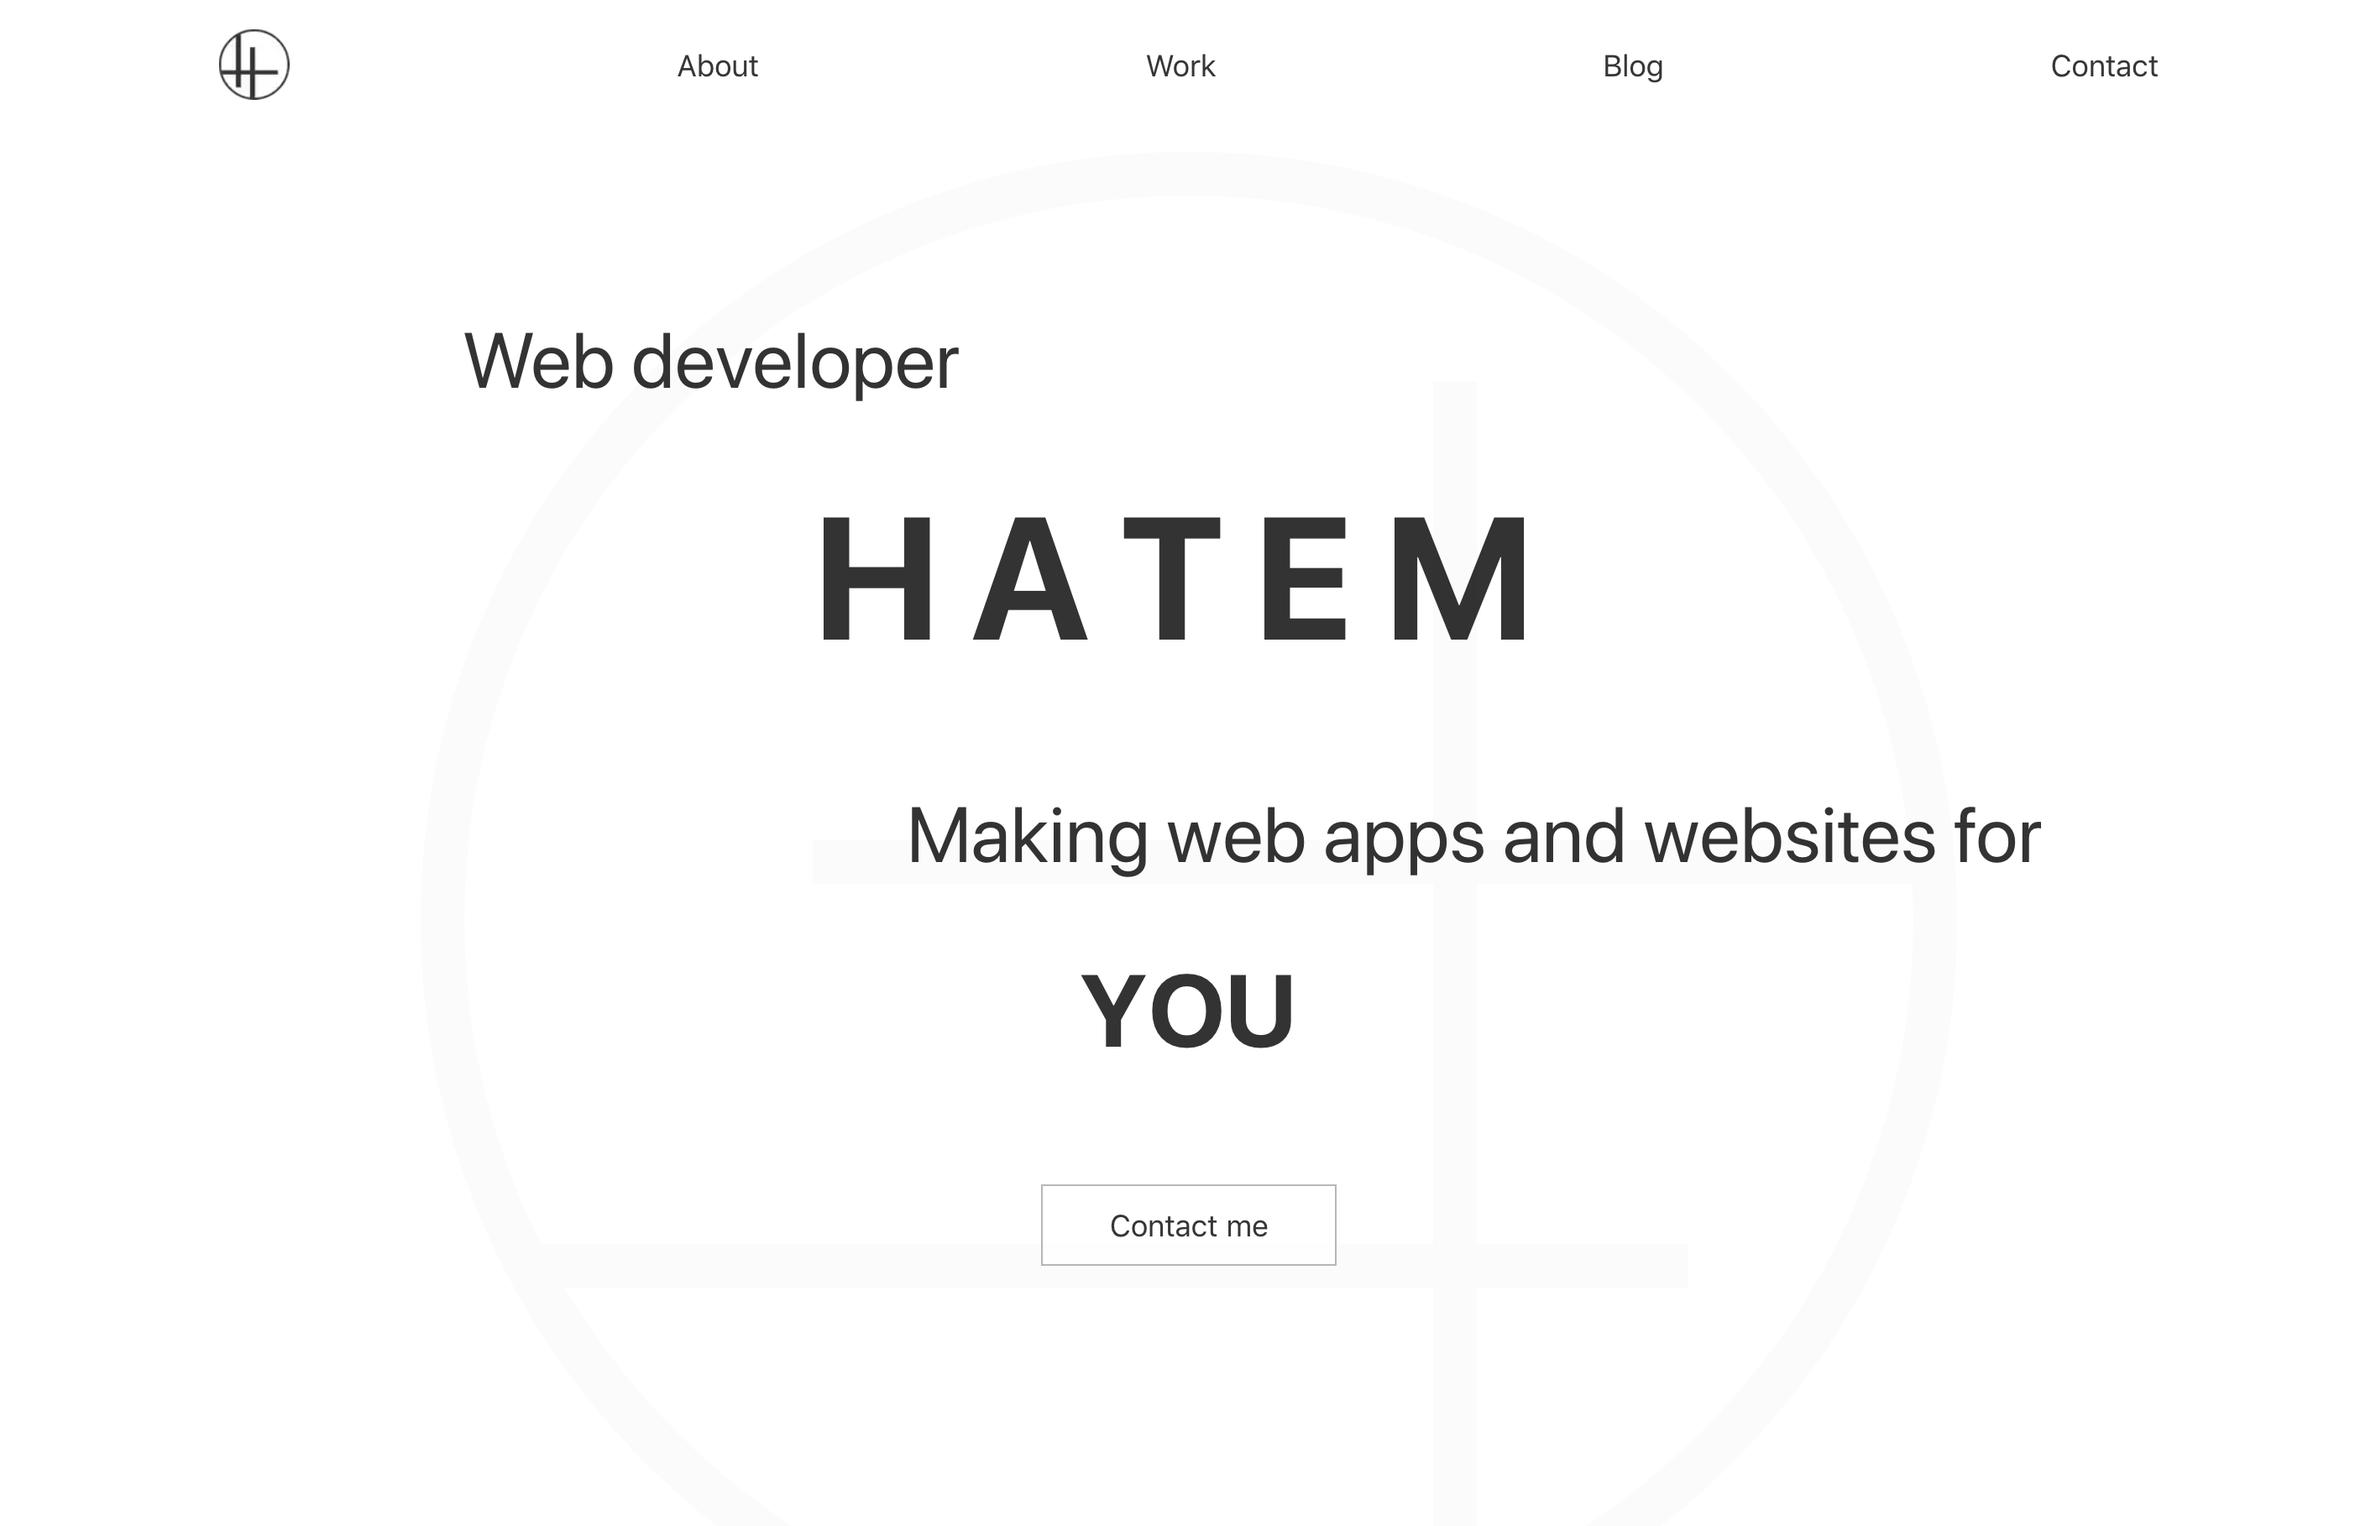
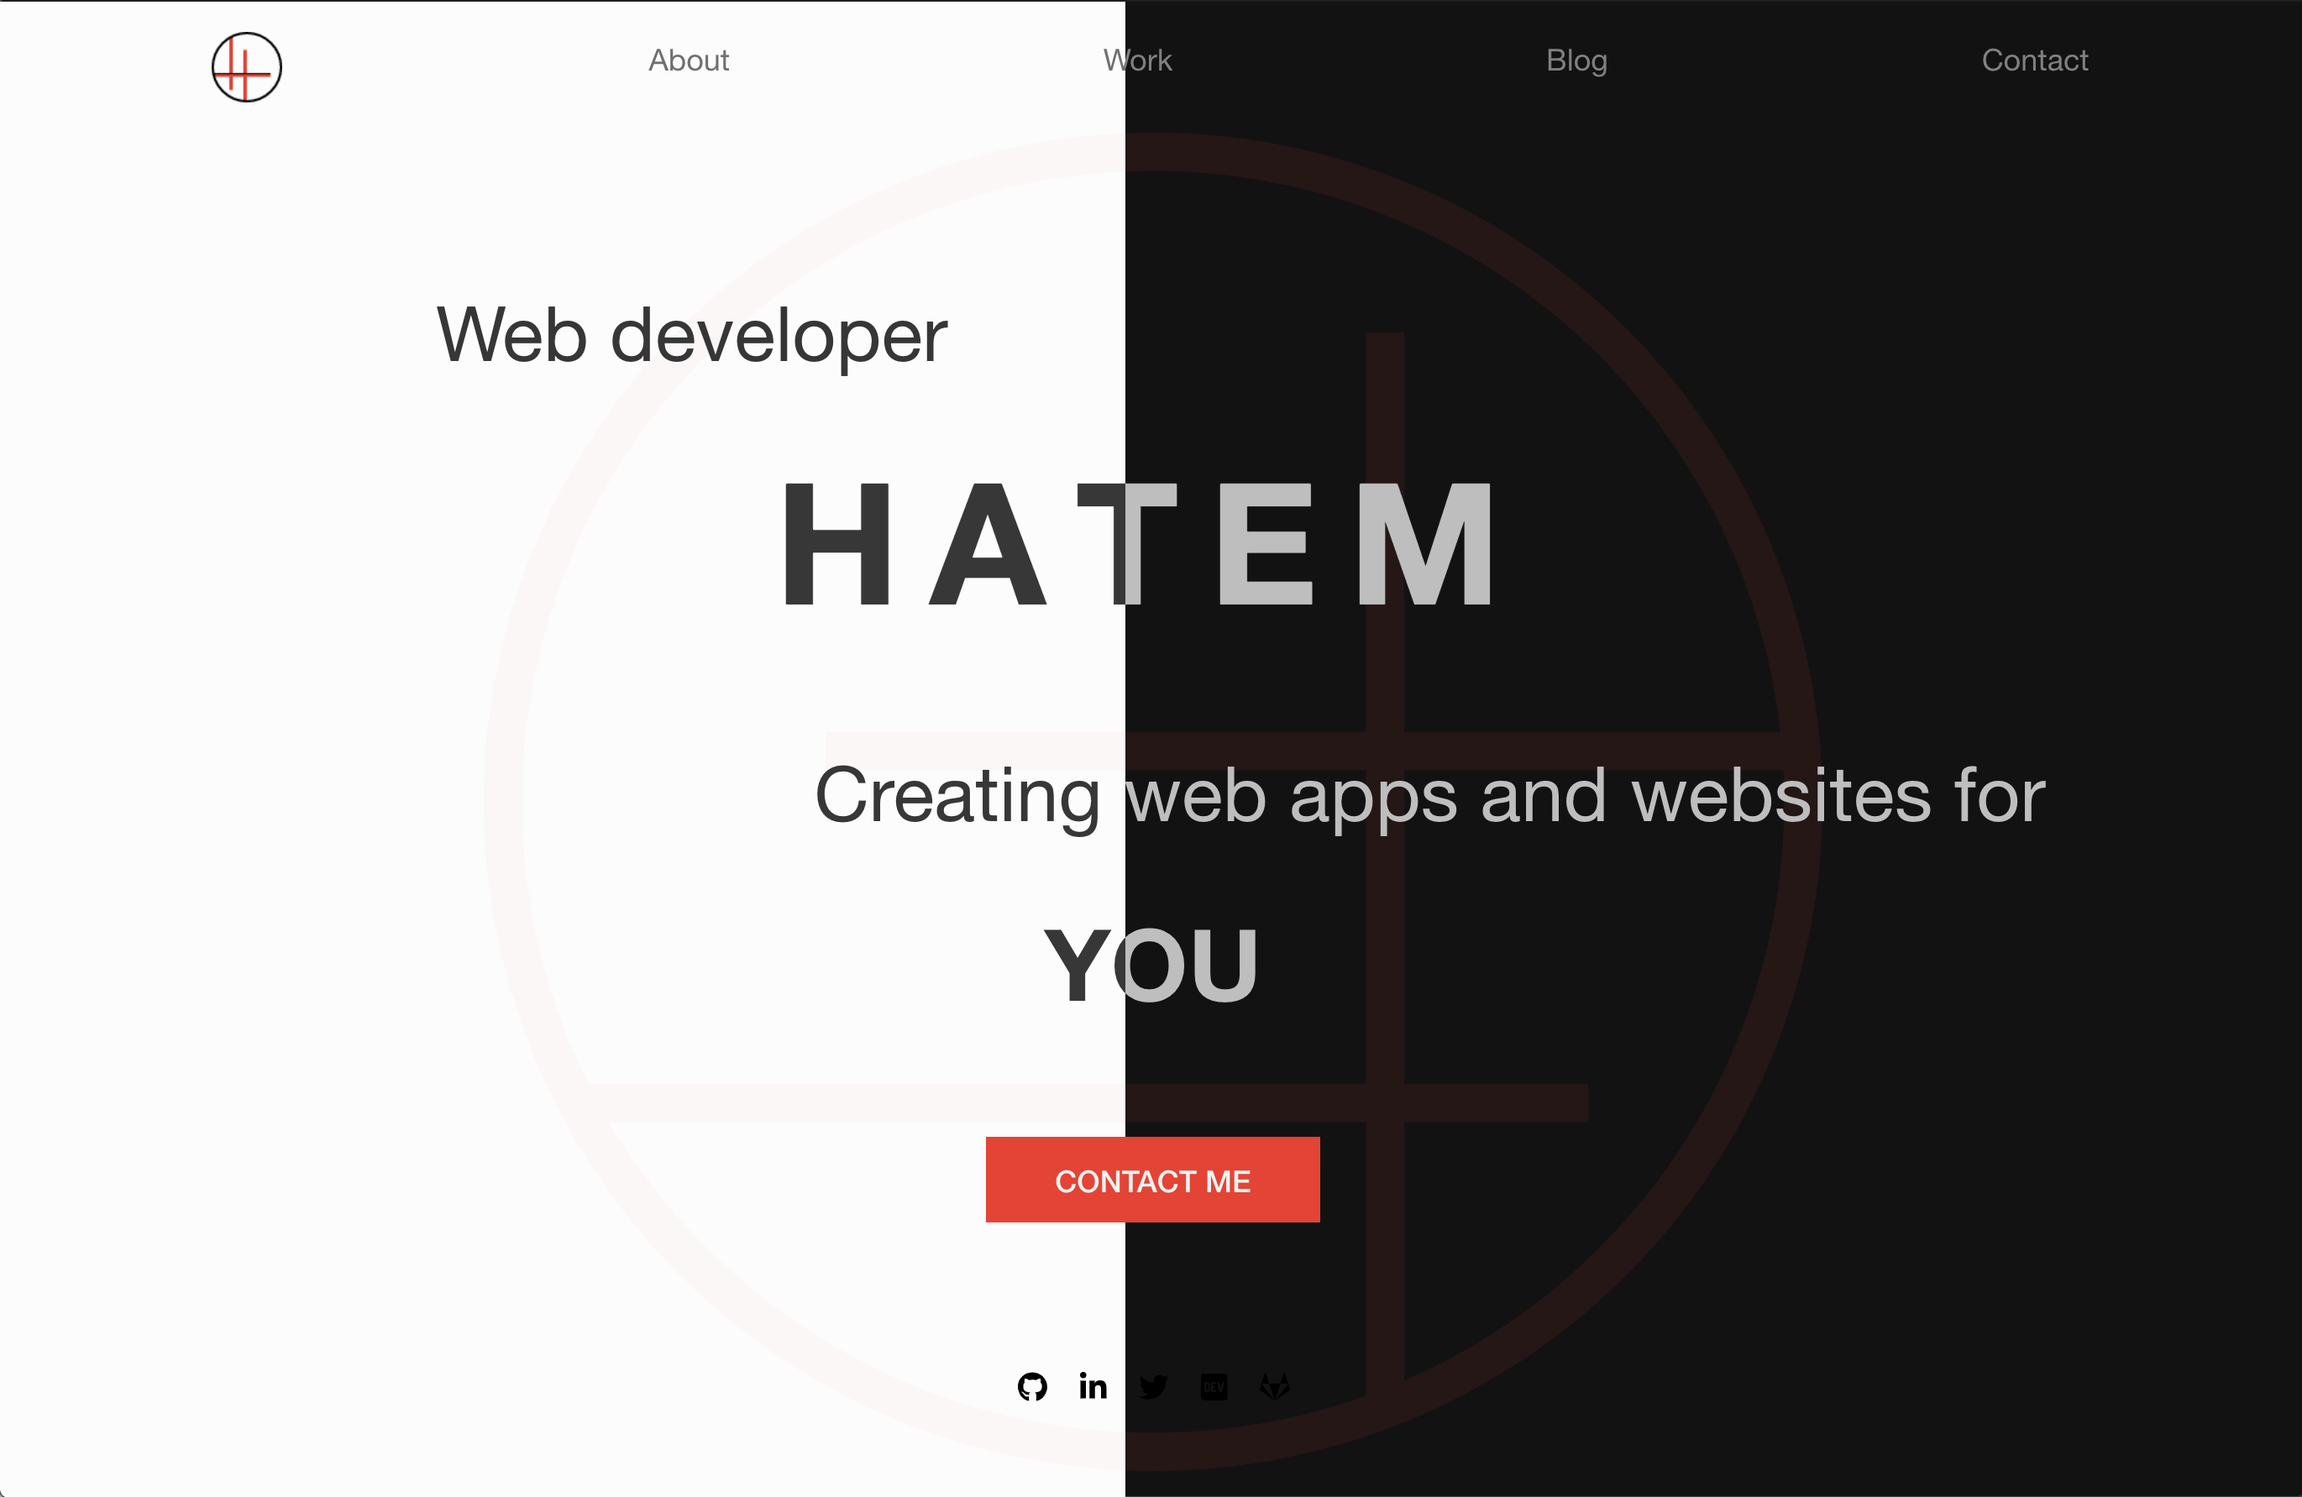
Update hatem website picture and add mood board

diff --git a/src/sass/index.scss b/src/sass/index.scss
@@ -16,24 +16,24 @@
   --color-link: hsl(212, 100%, 49%);
   --color-project-card-hover: hsl(0, 0%, 99%);
   --color-shadow: var(--color-tertiary);
-  @media screen and (prefers-color-scheme: dark) {
-    --color-background: hsl(0, 0%, 7%);
-    --color-primary: hsl(0, 0%, 75%);
-    --color-secondary: hsl(0, 0%, 50%);
-    --color-tertiary: hsl(0, 0%, 30%);
-    --color-vermilion-hover: hsl(5, 76%, 65%);
-    --color-shadow: hsl(0, 0%, 15%);
+  // @media screen and (prefers-color-scheme: dark) {
+  //   --color-background: hsl(0, 0%, 7%);
+  //   --color-primary: hsl(0, 0%, 75%);
+  //   --color-secondary: hsl(0, 0%, 50%);
+  //   --color-tertiary: hsl(0, 0%, 30%);
+  //   --color-vermilion-hover: hsl(5, 76%, 65%);
+  //   --color-shadow: hsl(0, 0%, 15%);
 
-    .layout {
-      background: url(../images/background-logo-darkmode.svg) center no-repeat; //import is relative the SCSS main entry file
-      background-size: contain;
-    }
+  //   .layout {
+  //     background: url(../images/background-logo-darkmode.svg) center no-repeat; //import is relative the SCSS main entry file
+  //     background-size: contain;
+  //   }
 
-    .site-nav .home-link {
-      background: url('../images/logo-darkmode.png');
-      background-size: contain;
-    }
-  }
+  //   .site-nav .home-link {
+  //     background: url('../images/logo-darkmode.png');
+  //     background-size: contain;
+  //   }
+  // }
 }
 
 body {

diff --git a/gatsby-config.js b/gatsby-config.js
@@ -2,10 +2,10 @@ module.exports = {
   siteMetadata: {
     siteUrl: 'https://hatem.page',
     title: `Hatem`,
-    description: `A web developer making web apps and websites for you.`,
+    description: `Website for Hatem, a web developer.`,
     author: {
       name: `Hatem Houssein`,
-      summary: `blabla`
+      summary: `A web developer creating web apps and websites. Also likes to blog his findings. `
     },
     email: `hatem.houssein@gmail.com`,
     gitHub: `SaulSilver`,

diff --git a/src/content/projects/hatem_website.md b/src/content/projects/hatem_website.md
@@ -12,3 +12,4 @@ Static website contains professional portfolio, blog and information about mysel
 - SCSS responsive design
 - Deployed using Netlify
 - AdobeXD for designing and wireframing
+  <!-- TODO: add moodboard picture -->
